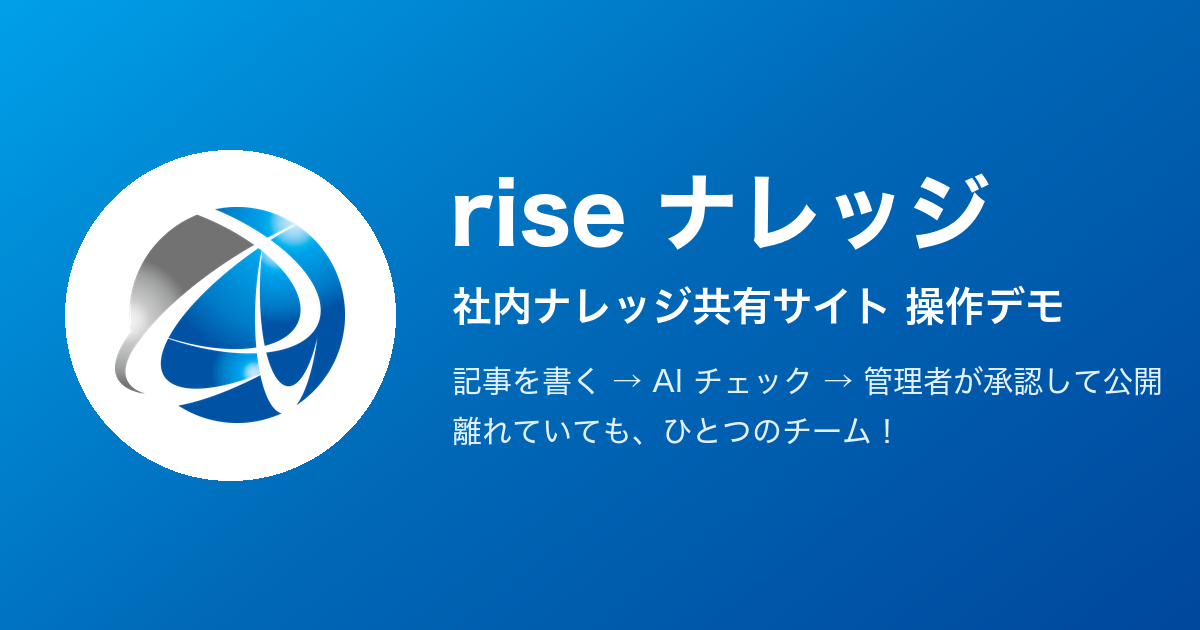
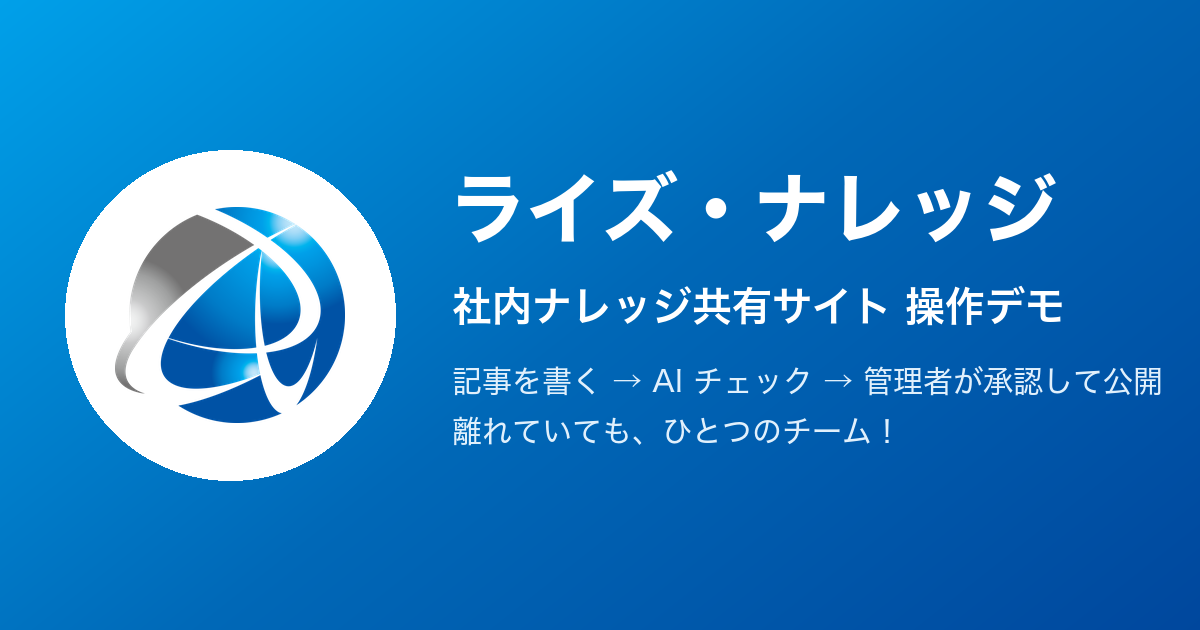
chore: サイト名を「ライズ・ナレッジ」に統一
ヘッダー・ログイン画面・タブのタイトル・デモ・LINE 用のプレビュー画像・README の表記をそろえた。

Changed region(s): [[0.37, 0.2714, 0.8942, 0.3921]]

diff --git a/app.js b/app.js
@@ -1,4 +1,4 @@
-// rise ナレッジ デモ版。本物のアプリ（Next.js）とは別物で、架空のデータをブラウザの中（localStorage）だけで扱う。
+// ライズ・ナレッジ デモ版。本物のアプリ（Next.js）とは別物で、架空のデータをブラウザの中（localStorage）だけで扱う。
 // 承認フローの決まり（自分の記事は承認できない、公開後の編集は新しい版を作る など）は本物に合わせている。
 import { html, render, useState, useEffect, useRef, useMemo } from "https://cdn.jsdelivr.net/npm/htm@3/preact/standalone.module.js";
 import { marked } from "https://cdn.jsdelivr.net/npm/marked@15/lib/marked.esm.js";
@@ -349,7 +349,7 @@ function LoginPage({ onLogin }) {
         <span aria-hidden="true" class="orbit orbit-spin -right-40 -bottom-56 size-[30rem] border-r-transparent border-b-white/40 [animation-duration:70s]"></span>
         <div class="relative flex items-center gap-3">
           <span class="rounded-2xl bg-white p-2 shadow-lg"><img src="logo.png" alt="" width="40" height="38" /></span>
-          <span class="text-xl font-bold">rise ナレッジ</span>
+          <span class="text-xl font-bold">ライズ・ナレッジ</span>
         </div>
         <div class="relative space-y-6">
           <p class="text-4xl leading-tight font-bold tracking-tight xl:text-5xl">離れていても、<br />ひとつのチーム！</p>
@@ -362,7 +362,7 @@ function LoginPage({ onLogin }) {
         <div class="mx-auto w-full max-w-sm space-y-6">
           <div class="text-center lg:text-left">
             <img src="logo.png" alt="rise tech solutions" width="68" height="64" class="mx-auto mb-4 lg:hidden" />
-            <h1 class="text-2xl font-bold tracking-tight">rise ナレッジ <span class="brand-text">操作デモ</span></h1>
+            <h1 class="text-2xl font-bold tracking-tight">ライズ・ナレッジ <span class="brand-text">操作デモ</span></h1>
             <p class="mt-1 text-sm text-muted">データは架空で、このブラウザの中だけに保存されます。</p>
           </div>
           <div class="space-y-2">
@@ -1307,7 +1307,7 @@ function Shell({ state, me, route, actions, children }) {
       </div>
       <header class="glass sticky top-0 z-20 border-b border-white/60 shadow-[0_1px_0_rgb(15_35_70/0.06)]">
         <div class="mx-auto flex max-w-7xl items-center gap-3 px-4 py-2.5">
-          <${Link} to="/" class="flex items-center gap-2 font-bold text-brand-strong"><img src="logo.png" alt="" width="30" height="28" /><span class="brand-text hidden text-lg tracking-tight sm:inline">rise ナレッジ</span><//>
+          <${Link} to="/" class="flex items-center gap-2 font-bold text-brand-strong"><img src="logo.png" alt="" width="30" height="28" /><span class="brand-text hidden text-lg tracking-tight sm:inline">ライズ・ナレッジ</span><//>
           <form onSubmit=${search} class="ml-auto hidden w-72 md:block">
             <input value=${q} onInput=${(e) => setQ(e.target.value)} type="search" placeholder="記事を検索" class="w-full rounded-full border border-border bg-surface/80 px-4 py-1.5 text-sm focus:border-brand focus:bg-surface focus:outline-none" />
           </form>

diff --git a/index.html b/index.html
@@ -5,9 +5,9 @@
     <meta name="viewport" content="width=device-width, initial-scale=1" />
     <!-- デモ版。検索エンジンには載せない -->
     <meta name="robots" content="noindex, nofollow" />
-    <title>rise ナレッジ（デモ版）</title>
-    <meta name="description" content="社内ナレッジ共有サイト「rise ナレッジ」の操作デモ。データはすべて架空で、このブラウザの中だけに保存されます。" />
-    <meta property="og:title" content="rise ナレッジ（デモ版）" />
+    <title>ライズ・ナレッジ（デモ版）</title>
+    <meta name="description" content="社内ナレッジ共有サイト「ライズ・ナレッジ」の操作デモ。データはすべて架空で、このブラウザの中だけに保存されます。" />
+    <meta property="og:title" content="ライズ・ナレッジ（デモ版）" />
     <meta property="og:description" content="記事を書く → AI チェック → 管理者が承認して公開。社内ナレッジ共有サイトの操作デモです（データは架空）。" />
     <meta property="og:type" content="website" />
     <meta property="og:url" content="https://yukis01060106.github.io/rise-knowledge/" />
